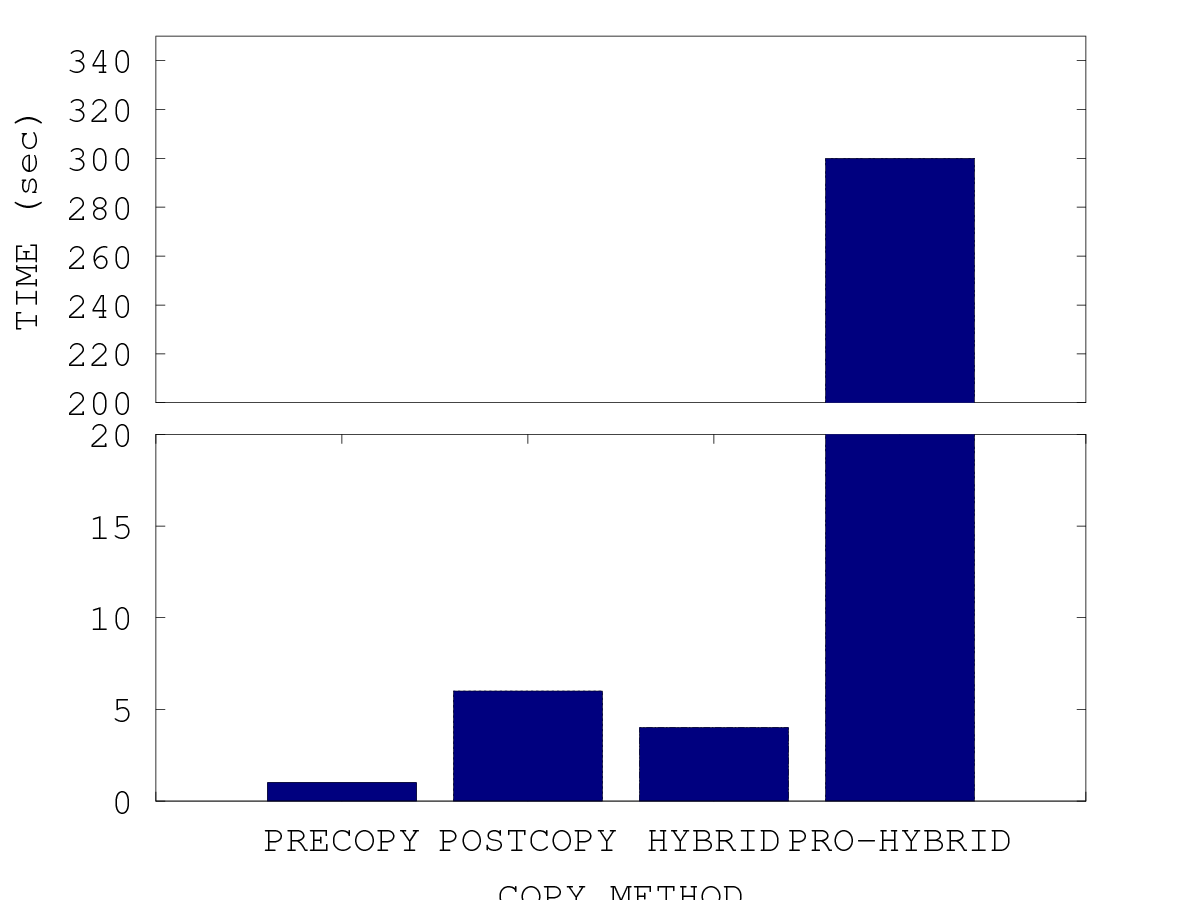
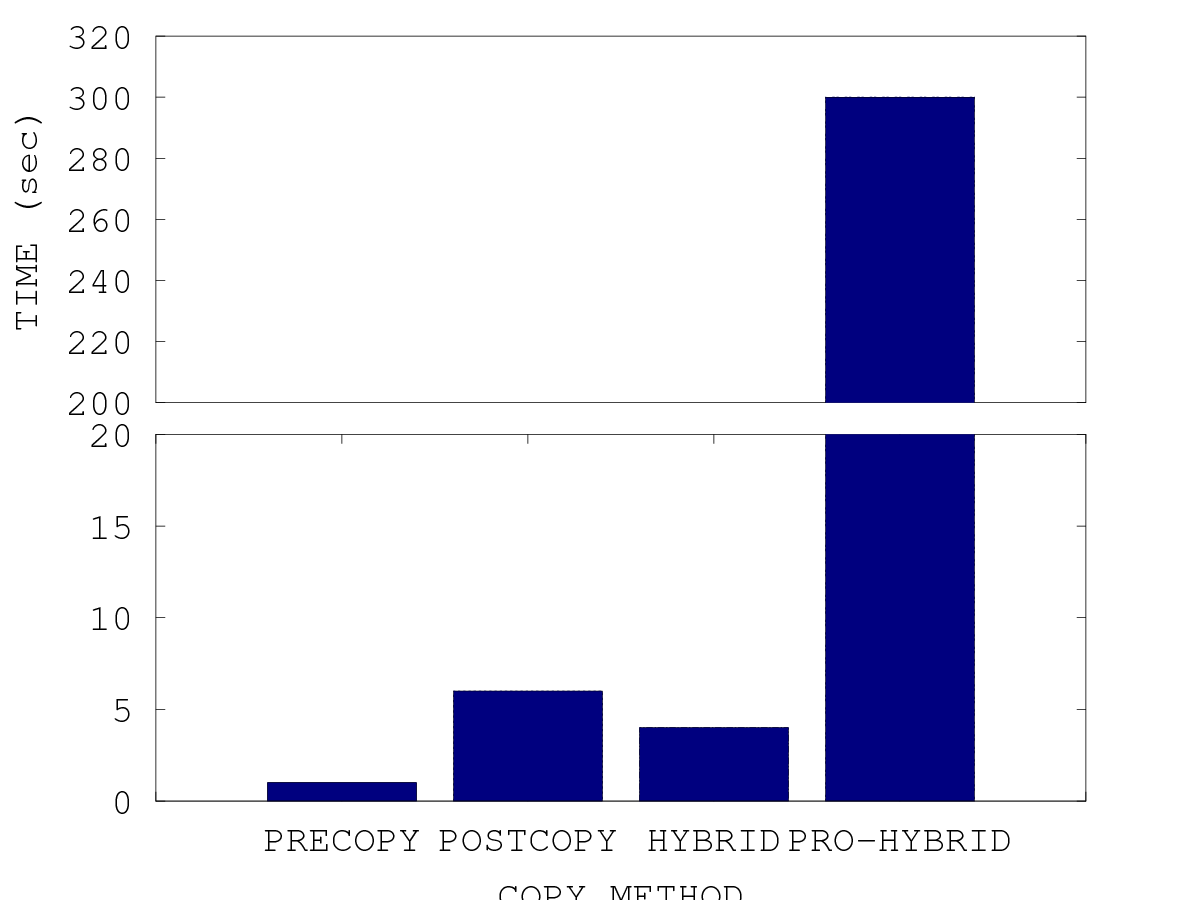
break_axis.m

diff --git a/break_axis.m b/break_axis.m
@@ -6,7 +6,7 @@ fontsize = 18;
 ylim1=[0 20];
 %ylim2=[100 300];
 %ylim2=[200 400];
-ylim2=[200 350];
+ylim2=[200 320];
 xlim=[0 length(a)+1];
 
 figure;
